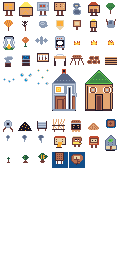
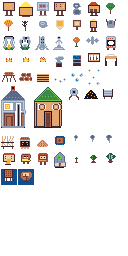
feat(world): three decorative heritage islands (brief 51)
Standing stones, a ruined tower, and a weathered statue — reachable but
purely decorative landmark islands scattered across three quadrants to break
the archipelago's cardinal symmetry. Region + bridge + sprite + hover label,
no sim behavior.

- regions.ts: 3 ids + bounds + REGIONS entries + 3 water-only bridges
  (heritage-stones→mushroom-grove W, heritage-ruin→atticus NE,
  heritage-statue→otto SW). All 8×8, ≥2-tile ocean margin, BFS-reachable
  (guard tests assert). No map expansion needed.
- 3 new structure/heritage-* sprites (EDG palette); atlas regenerated
  deterministically (52→55 frames, buildings.png/.json only). Hover labels
  via DECORATION_LABELS.
- set-pieces.test.ts snapshot updated: the brief-49 open-water scatter rejects
  walkable tiles, so 3 new islands shifted one sampled prop (count 28 + all
  rejection invariants unchanged) — a deliberate, expected ripple.

Verified: typecheck EXIT 0; guard+heritage+atlas 51; set-pieces 11; full
suite 60 + 724 + 4; CHECK_DETERMINISM MATCH; palette green; sprites
confirmed distinct in-browser. Brief 51 → done/.

diff --git a/tools/atlas-builder/src/recipes/base-recipes.ts b/tools/atlas-builder/src/recipes/base-recipes.ts
@@ -2128,6 +2128,86 @@ export const BASE_RECIPES: PixelRecipe[] = [
     ],
   },
   {
+    // brief 51 — heritage standing stones: an ancient dolmen ring. Three weathered
+    // megaliths (stone light `q` faces, dark `Q` bodies) ring a low grassy mound
+    // (`G`/`c`), with near-black `k` seams reading as age cracks/shadow. Distinct
+    // from the shrine (no gold offering glow, an open ring rather than a capped
+    // dolmen) and from every other structure. Purely decorative.
+    name: "structure/heritage-stones",
+    size: 16,
+    pixels: [
+      "................",
+      ".....qq..qq.....",
+      "....qQQkkQQq....",
+      "....qQQkkQQq....",
+      "..qq.QQQQ.qq....",
+      ".qQQk.QQ.kQQq...",
+      ".qQQk.QQ.kQQq...",
+      ".qQQk....kQQq...",
+      "..QQ......QQ....",
+      "..QQ.qqqq.QQ....",
+      "...k.qQQq.k.....",
+      "...GGqQQqGG.....",
+      "..GcGGGGGGcG....",
+      "...GccGGccG.....",
+      "....cGGGGc......",
+      "................",
+    ],
+  },
+  {
+    // brief 51 — ruined watchtower: a broken stone tower (light `q` mortar over
+    // dark `Q` blocks) with a jagged, collapsed crown and a fallen-block rubble
+    // skirt at its base, near-black `k` for window slits / cracks. Reads as a
+    // crumbling fortification — distinct from the well (no roof/bucket) and the
+    // mill (no sails). Purely decorative.
+    name: "structure/heritage-ruin",
+    size: 16,
+    pixels: [
+      "................",
+      "....Q..QQ.......",
+      "....QqQQQq......",
+      "....QqQQQq......",
+      "....QqkQkq......",
+      "....QqQQQq......",
+      "....QqQQQq......",
+      "....QqkQkq......",
+      "....QqQQQq......",
+      "...QQqQQQqQ.....",
+      "...QqQQQQQq.....",
+      "..QQqQQQQQqQ....",
+      "..QqQQQQQQQq....",
+      ".QQ.QQqqQQ.QQ...",
+      "QQq..QQQQ..qQQ..",
+      "................",
+    ],
+  },
+  {
+    // brief 51 — weathered statue: a robed figure on a plinth, carved in pale
+    // stone (light `q` highlights, dark `Q` shade), near-black `k` for the worn
+    // face/seams, atop a wide stepped pedestal. Reads as an old monument — the
+    // tallest of the three relics. Purely decorative.
+    name: "structure/heritage-statue",
+    size: 16,
+    pixels: [
+      "................",
+      "......qq........",
+      ".....qkkq.......",
+      ".....qQQq.......",
+      "......qq........",
+      ".....qQQq.......",
+      "....qQqqQq......",
+      "...qQ.qq.Qq.....",
+      "....q.qq.q......",
+      "......qq........",
+      ".....qQQq.......",
+      ".....QQQQ.......",
+      "...QQQQQQQQ.....",
+      "..QqqqqqqqqQ....",
+      ".QQQQQQQQQQQQ...",
+      "................",
+    ],
+  },
+  {
     name: "structure/mushroom-marker",
     size: 16,
     pixels: [

diff --git a/packages/farm-valley/src/world/regions.ts b/packages/farm-valley/src/world/regions.ts
@@ -14,7 +14,10 @@ export type FixedRegionId =
   | 'fishing-isle'                    // Sand island you fish from (any ocean edge) — S of mill
   | 'fishing-isle-2'                  // Second sand fishing island — S of forest-south (SW)
   | 'harbor'                          // Harbor island — shipping dock + contract board (brief 46)
-  | 'shrine';                         // Interactive shrine island — pray for a bounded AP boost (brief 50)
+  | 'shrine'                          // Interactive shrine island — pray for a bounded AP boost (brief 50)
+  | 'heritage-stones'                 // Decorative standing-stones islet (brief 51) — W-mid, no behavior
+  | 'heritage-ruin'                   // Decorative ruined-tower islet (brief 51) — NE, no behavior
+  | 'heritage-statue';                // Decorative weathered-statue islet (brief 51) — SW-south, no behavior
 
 /** Procedurally-generated extra farm islands (the southern farm band). `farm-0`
  *  .. `farm-(EXTRA_FARM_COUNT-1)`, laid out by {@link makeExtraFarmRegion}. */
@@ -177,6 +180,26 @@ const HARBOR_BOUNDS = { minX: 58, minY: 68, maxX: 65, maxY: 75 };
 // village (walkable-grid test asserts both). Center (56,21).
 const SHRINE_BOUNDS = { minX: 53, minY: 18, maxX: 59, maxY: 24 };
 
+// ── Heritage sites (brief 51) — three purely DECORATIVE landmark islets ───────
+// Three small 8×8 authored landmarks that break the archipelago's cardinal
+// symmetry and give the world a sense of history. They are REACHABLE (region +
+// one 2-wide water-only bridge each) but have NO gameplay behavior: no act
+// handler, no deliberation, no perceive, no cooldown, no component. They exist
+// purely as a layout body + a center sprite + a hover label. Placed in three
+// different quadrants (W-mid, NE, SW-south) so they read as scattered relics,
+// NOT a fourth symmetric ring. No map expansion was needed — all three fit in
+// existing open-ocean gaps of the original 88×80 core.
+//
+// Margins (computed against EVERY other region body + the farm band; the
+// walkable-grid guard re-asserts ≥2 ocean tiles):
+//   stones : nearest body farm-cora at 6 ocean tiles  (≥2 ✔)
+//   ruin   : nearest body farm-atticus at 6 ocean tiles (≥2 ✔)
+//   statue : nearest body farm-otto at 4 ocean tiles  (≥2 ✔)
+// Each is BFS-reachable from the village over its single bridge (guard asserts).
+const HERITAGE_STONES_BOUNDS = { minX:  4, minY: 20, maxX: 11, maxY: 27 }; // W-mid (above mushroom-grove)
+const HERITAGE_RUIN_BOUNDS   = { minX: 76, minY: 20, maxX: 83, maxY: 27 }; // NE (below Atticus)
+const HERITAGE_STATUE_BOUNDS = { minX:  4, minY: 70, maxX: 11, maxY: 77 }; // SW-south (below Otto)
+
 /** Every fishing-isle region id, so the renderer / fishing logic treat them
  *  uniformly. */
 export const FISHING_ISLE_IDS: readonly RegionId[] = ['fishing-isle', 'fishing-isle-2'];
@@ -186,6 +209,13 @@ export const HARBOR_REGION_ID: RegionId = 'harbor';
 
 /** brief 50 — the interactive shrine island (pray for a bounded AP boost). */
 export const SHRINE_REGION_ID: RegionId = 'shrine';
+
+/** brief 51 — the three purely-decorative heritage-site islets (no behavior). */
+export const HERITAGE_REGION_IDS: readonly RegionId[] = [
+  'heritage-stones',
+  'heritage-ruin',
+  'heritage-statue',
+];
 
 /** The dock tile where a farmer stands to deliver a contract. */
 export const HARBOR_DOCK_TILE = { x: 61, y: 68 } as const;
@@ -356,6 +386,11 @@ export const REGIONS: readonly RegionDef[] = [
   { id: 'fishing-isle-2', kind: 'village', bounds: FISHING_ISLE_2_BOUNDS,  center: midpoint(FISHING_ISLE_2_BOUNDS) },
   { id: 'harbor',         kind: 'village', bounds: HARBOR_BOUNDS,          center: midpoint(HARBOR_BOUNDS) },
   { id: 'shrine',         kind: 'village', bounds: SHRINE_BOUNDS,          center: midpoint(SHRINE_BOUNDS) },
+  // Heritage sites (brief 51) — decorative landmark islets; village-kind so they
+  // render/route as ordinary reachable islands, but carry NO gameplay behavior.
+  { id: 'heritage-stones', kind: 'village', bounds: HERITAGE_STONES_BOUNDS, center: midpoint(HERITAGE_STONES_BOUNDS) },
+  { id: 'heritage-ruin',   kind: 'village', bounds: HERITAGE_RUIN_BOUNDS,   center: midpoint(HERITAGE_RUIN_BOUNDS) },
+  { id: 'heritage-statue', kind: 'village', bounds: HERITAGE_STATUE_BOUNDS, center: midpoint(HERITAGE_STATUE_BOUNDS) },
   // Procedural farm band (south) — additive; the five fixed farms above are unchanged.
   ...EXTRA_FARM_REGIONS,
 ];
@@ -411,6 +446,12 @@ const ROADS: readonly RoadDef[] = [
   // 2-wide, water-only, x58–59 down through y12–17 (6 ocean tiles) joining the
   // quarry-north south edge (y11) to the shrine top edge (y18).
   { minX: 58, minY: 12, maxX: 59, maxY: 17 }, // quarry-north ↔ shrine
+
+  // ── Heritage sites (brief 51) — one 2-wide water-only bridge each ──────────
+  // Each spans only ocean from the islet's edge to its nearest hub island.
+  { minX:  8, minY: 28, maxX:  9, maxY: 33 }, // heritage-stones ↔ mushroom-grove (down, 6 ocean tiles)
+  { minX: 78, minY: 14, maxX: 79, maxY: 19 }, // heritage-ruin   ↔ farm-atticus   (up,   6 ocean tiles)
+  { minX:  6, minY: 66, maxX:  7, maxY: 69 }, // heritage-statue ↔ farm-otto      (up,   4 ocean tiles)
 
   // ── Procedural farm band (south) — trunk + per-row collectors ──
   ...EXTRA_FARM_ROADS,

diff --git a/packages/farm-valley/src/world/walkable-grid.test.ts b/packages/farm-valley/src/world/walkable-grid.test.ts
@@ -190,6 +190,39 @@ describe('buildWalkableGrid', () => {
     expect(shrine, 'shrine region exists').toBeTruthy();
     expect(walkable(shrine!.center.x, shrine!.center.y), 'shrine center walkable').toBe(true);
     expect(seen.has(idx(shrine!.center.x, shrine!.center.y)), 'shrine reachable from village').toBe(true);
+
+    // brief 51 — the three decorative heritage islets are real regions, walkable
+    // at their centers, and BFS-reachable from the village over their single
+    // bridges (one to mushroom-grove, one to Atticus, one to Otto).
+    for (const id of ['heritage-stones', 'heritage-ruin', 'heritage-statue'] as const) {
+      const h = REGIONS.find((r) => r.id === id);
+      expect(h, `${id} region exists`).toBeTruthy();
+      expect(walkable(h!.center.x, h!.center.y), `${id} center walkable`).toBe(true);
+      expect(seen.has(idx(h!.center.x, h!.center.y)), `${id} reachable from village`).toBe(true);
+    }
+  });
+
+  it('each heritage islet keeps a ≥2-tile ocean margin from every other region (brief 51)', () => {
+    // The three heritage sites are hand-placed landmarks; assert the no-adjacency
+    // invariant holds with the ≥2-tile margin against every other island body.
+    const oceanGap = (
+      a: { minX: number; minY: number; maxX: number; maxY: number },
+      b: { minX: number; minY: number; maxX: number; maxY: number },
+    ) => {
+      const gx = Math.max(b.minX - a.maxX - 1, a.minX - b.maxX - 1);
+      const gy = Math.max(b.minY - a.maxY - 1, a.minY - b.maxY - 1);
+      return Math.max(gx, gy);
+    };
+    for (const id of ['heritage-stones', 'heritage-ruin', 'heritage-statue'] as const) {
+      const h = REGIONS.find((r) => r.id === id)!;
+      for (const r of REGIONS) {
+        if (r.id === id) continue;
+        expect(
+          oceanGap(h.bounds, r.bounds),
+          `${id} and ${r.id} must keep ≥2 ocean tiles`,
+        ).toBeGreaterThanOrEqual(2);
+      }
+    }
   });
 
   it('the shrine island keeps a ≥2-tile ocean margin from every other region (brief 50)', () => {

diff --git a/packages/farm-valley/src/world/region-setup/setup.ts b/packages/farm-valley/src/world/region-setup/setup.ts
@@ -427,6 +427,25 @@ export function setupRegions(
     });
   }
 
+  // ── Heritage landmarks (brief 51) ────────────────────────────────────────────
+  // One decorative sprite at each heritage islet center. These carry NO
+  // identifying component and NO sim behavior — they are purely visible landmarks.
+  // The hover label is resolved frame→label in snapshot-builder/constants.ts
+  // (DECORATION_LABELS), the same path the village props use.
+  for (const [id, frame] of [
+    ["heritage-stones", "structure/heritage-stones"],
+    ["heritage-ruin",   "structure/heritage-ruin"],
+    ["heritage-statue", "structure/heritage-statue"],
+  ] as const) {
+    const r = REGIONS.find((reg) => reg.id === id);
+    if (r) {
+      world.spawn({
+        transform: { x: r.center.x, y: r.center.y, prevX: r.center.x, prevY: r.center.y, rotation: 0 },
+        sprite: { atlasId: "main", frame, layer: 50, tintRgba: 0xffffffff },
+      });
+    }
+  }
+
   // ── Ambient world dressing (purely decorative sprites; no collision) ──────────
   // Props are layer-40 sprites only — they do NOT affect walkability or
   // pathfinding (only `tileFeature` trees/stones block), so these are safe to

diff --git a/packages/farm-valley/src/world/regions.test.ts b/packages/farm-valley/src/world/regions.test.ts
@@ -66,6 +66,16 @@ describe('regionAt', () => {
     expect(isWalkable(56, 21)).toBe(true);
   });
 
+  it('returns the heritage islets at their centers and they are walkable (brief 51)', () => {
+    // Three purely-decorative landmark islets in three quadrants.
+    expect(regionAt(7, 23)).toBe('heritage-stones');  // center of x4-11,y20-27
+    expect(regionAt(79, 23)).toBe('heritage-ruin');   // center of x76-83,y20-27
+    expect(regionAt(7, 73)).toBe('heritage-statue');  // center of x4-11,y70-77
+    expect(isWalkable(7, 23)).toBe(true);
+    expect(isWalkable(79, 23)).toBe(true);
+    expect(isWalkable(7, 73)).toBe(true);
+  });
+
   it('returns null for bridge (road) tiles — walkable but not a named region', () => {
     expect(regionAt(34, 38)).toBeNull(); // village ↔ carpentry bridge
     expect(regionAt(42, 20)).toBeNull(); // village ↔ Pip bridge

diff --git a/packages/farm-valley/src/render-systems/set-pieces.test.ts b/packages/farm-valley/src/render-systems/set-pieces.test.ts
@@ -36,9 +36,9 @@ describe("set-pieces (decorative open-water props)", () => {
     expect(first).toMatchInlineSnapshot(`
       [
         {
-          "frame": "structure/stone",
-          "tx": 37,
-          "ty": 54,
+          "frame": "tile/sand",
+          "tx": 14,
+          "ty": 16,
         },
         {
           "frame": "structure/stone",

diff --git a/packages/farm-valley/src/worker/snapshot-builder/constants.ts b/packages/farm-valley/src/worker/snapshot-builder/constants.ts
@@ -60,6 +60,11 @@ export const DECORATION_LABELS: Record<string, { label: string; description: str
   "decoration/hay-bale": { label: "Hay Bale", description: "A bale of hay — just scenery." },
   "decoration/bush": { label: "Bush", description: "A leafy bush — just scenery." },
   "decoration/log-stack": { label: "Log Stack", description: "Stacked logs — just scenery." },
+  // brief 51 — heritage-site landmark islets. Decorative only; the hover names
+  // them so spectators read the world's "history". No gameplay behavior.
+  "structure/heritage-stones": { label: "Standing Stones", description: "An ancient dolmen ring — a relic of an older age. Just a landmark." },
+  "structure/heritage-ruin": { label: "Ruined Tower", description: "The crumbling remains of an old watchtower. Just a landmark." },
+  "structure/heritage-statue": { label: "Weathered Statue", description: "A worn monument to someone long forgotten. Just a landmark." },
 };
 
 /** How many feed lines to ship in the snapshot (panel shows ~30). */

diff --git a/corpus/log.md b/corpus/log.md
@@ -2,6 +2,19 @@
 
 Append-only chronological record. Each entry starts with `## [YYYY-MM-DD] <kind> | <title>` so `grep '^## \[' log.md` produces a readable timeline.
 
+## [2026-06-09] impl | Brief 51 — three decorative heritage islands
+
+**Shipped 3 reachable, purely-decorative heritage landmark islands** (standing stones / ruined tower / weathered statue) scattered across three quadrants to break the archipelago's cardinal symmetry. Presence-only — region + bridge + sprite + hover label, NO sim behavior.
+
+- All in [regions.ts](../packages/farm-valley/src/world/regions.ts) (3 ids + bounds + REGIONS entries + 3 water-only bridges, `HERITAGE_REGION_IDS` export) and [region-setup/setup.ts](../packages/farm-valley/src/world/region-setup/setup.ts) (sprite spawn per islet, mirroring the shrine block). All 8×8:
+  - `heritage-stones` x4-11/y20-27 → bridge to mushroom-grove (W-mid)
+  - `heritage-ruin` x76-83/y20-27 → bridge to farm-atticus (NE)
+  - `heritage-statue` x4-11/y70-77 → bridge to farm-otto (SW)
+- **No map expansion needed** — all three fit existing open-ocean gaps of the original 88×80 core (WORLD_WIDTH/HEIGHT unchanged), each ≥2-tile ocean margin + BFS-reachable (guard tests assert).
+- 3 new authored `structure/heritage-*` sprites (EDG palette, base-recipes.ts); atlas regenerated deterministically (52→55 frames; buildings.png/.json only). Visually confirmed distinct in-browser. Hover labels via `DECORATION_LABELS` (snapshot-builder/constants.ts).
+- **Cross-feature ripple (benign, expected):** the brief-49 open-water set-piece scatter rejects walkable tiles, so 3 new islands grew the rejection set and shifted ONE sampled prop position — `set-pieces.test.ts` inline snapshot updated deliberately; prop count (28) + all rejection invariants still pass. (A reminder that adding reachable islands perturbs the décor scatter — not the sim.)
+- Verified: typecheck EXIT 0; guard+heritage+atlas tests 51; set-pieces 11 (count unchanged); full suite engine 60 + farm-valley 724 + atlas-builder 4; `CHECK_DETERMINISM=1` MATCH (decorative islands don't affect sim); palette green. The pre-existing `[travel] region 'undefined'` warning reproduced identically (unrelated).
+
 ## [2026-06-09] impl | Brief 50 — interactive shrine island (visit→AP buff)
 
 **Shipped the first interactive island.** Opportunist farmers occasionally travel to a shrine island and "pray" for a small, bounded, cooldown-gated AP top-up. First of the "more islands" theme to land; establishes the interactive-island pattern (region+bridge + act handler + one-personality deliberation + cooldown).

diff --git a/corpus/index.md b/corpus/index.md
@@ -30,5 +30,5 @@ Each brief is the spec that directed a slice of work. Once in `done/`/`supersede
 
 ### Game
 
-- **done/** — briefs 01–49, all shipped (see [briefs/game/done/](briefs/game/done/) for the files and [status.md](wiki/status.md) for per-brief one-liners). Spans personalities, weather/crops, market/shop/auctions, observer UI, regions + travel, peer trades, trust, the camera/leaderboard/playback/seed/decision-trace/event-feed spectator UI, seasons, mid-game shock, day/night grading, long days, AP rework, irrigation, the rendering overhaul + world expansion, player activity, the 36–40 spectator/story layer, the 41–46 depth wave (crop roster + quality, livestock + orchards, greenhouse + skills, working NPCs + tavern, festivals, harbor + contracts), the 47 atlas split, the 48 boats + coral fishing, the 49 organic-procgen pass (fBm + domain-warp texture, jittered farm band, clustered tile features, open-water props; track 3/Simplex deferred), and the 50 interactive shrine island (visit→bounded AP buff, opportunist-only — the first of the "more islands" theme). Briefs 08/09/10 each have a `*-plan.md` companion alongside the brief.
-- **todo/** — the rest of the **"more islands" theme** (landmark + special islands that break the archipelago's symmetry; user request 2026-06-09; pattern set by the shipped brief 50 shrine): [51-heritage-sites-decorative-islands](briefs/game/todo/51-heritage-sites-decorative-islands.md) (decorative history sites, presence-only) · [52-waterfall-island](briefs/game/todo/52-waterfall-island.md) (decorative + animated) · [53-remote-bar-gold-for-ap](briefs/game/todo/53-remote-bar-gold-for-ap.md) (gold→AP — ⚠️ overlaps the existing brief-44 tavern; scope decision first) · [54-camping-rest-island](briefs/game/todo/54-camping-rest-island.md) (rest away from home without the unrested penalty)
+- **done/** — briefs 01–49, all shipped (see [briefs/game/done/](briefs/game/done/) for the files and [status.md](wiki/status.md) for per-brief one-liners). Spans personalities, weather/crops, market/shop/auctions, observer UI, regions + travel, peer trades, trust, the camera/leaderboard/playback/seed/decision-trace/event-feed spectator UI, seasons, mid-game shock, day/night grading, long days, AP rework, irrigation, the rendering overhaul + world expansion, player activity, the 36–40 spectator/story layer, the 41–46 depth wave (crop roster + quality, livestock + orchards, greenhouse + skills, working NPCs + tavern, festivals, harbor + contracts), the 47 atlas split, the 48 boats + coral fishing, the 49 organic-procgen pass (fBm + domain-warp texture, jittered farm band, clustered tile features, open-water props; track 3/Simplex deferred), the 50 interactive shrine island (visit→bounded AP buff, opportunist-only), and the 51 three heritage landmark islands (decorative standing-stones / ruined-tower / statue) — the first two of the "more islands" theme. Briefs 08/09/10 each have a `*-plan.md` companion alongside the brief.
+- **todo/** — the rest of the **"more islands" theme** (landmark + special islands that break the archipelago's symmetry; user request 2026-06-09; pattern set by the shipped briefs 50 shrine + 51 heritage): [52-waterfall-island](briefs/game/todo/52-waterfall-island.md) (decorative + animated) · [53-remote-bar-gold-for-ap](briefs/game/todo/53-remote-bar-gold-for-ap.md) (gold→AP — ⚠️ overlaps the existing brief-44 tavern; scope decision first) · [54-camping-rest-island](briefs/game/todo/54-camping-rest-island.md) (rest away from home without the unrested penalty)